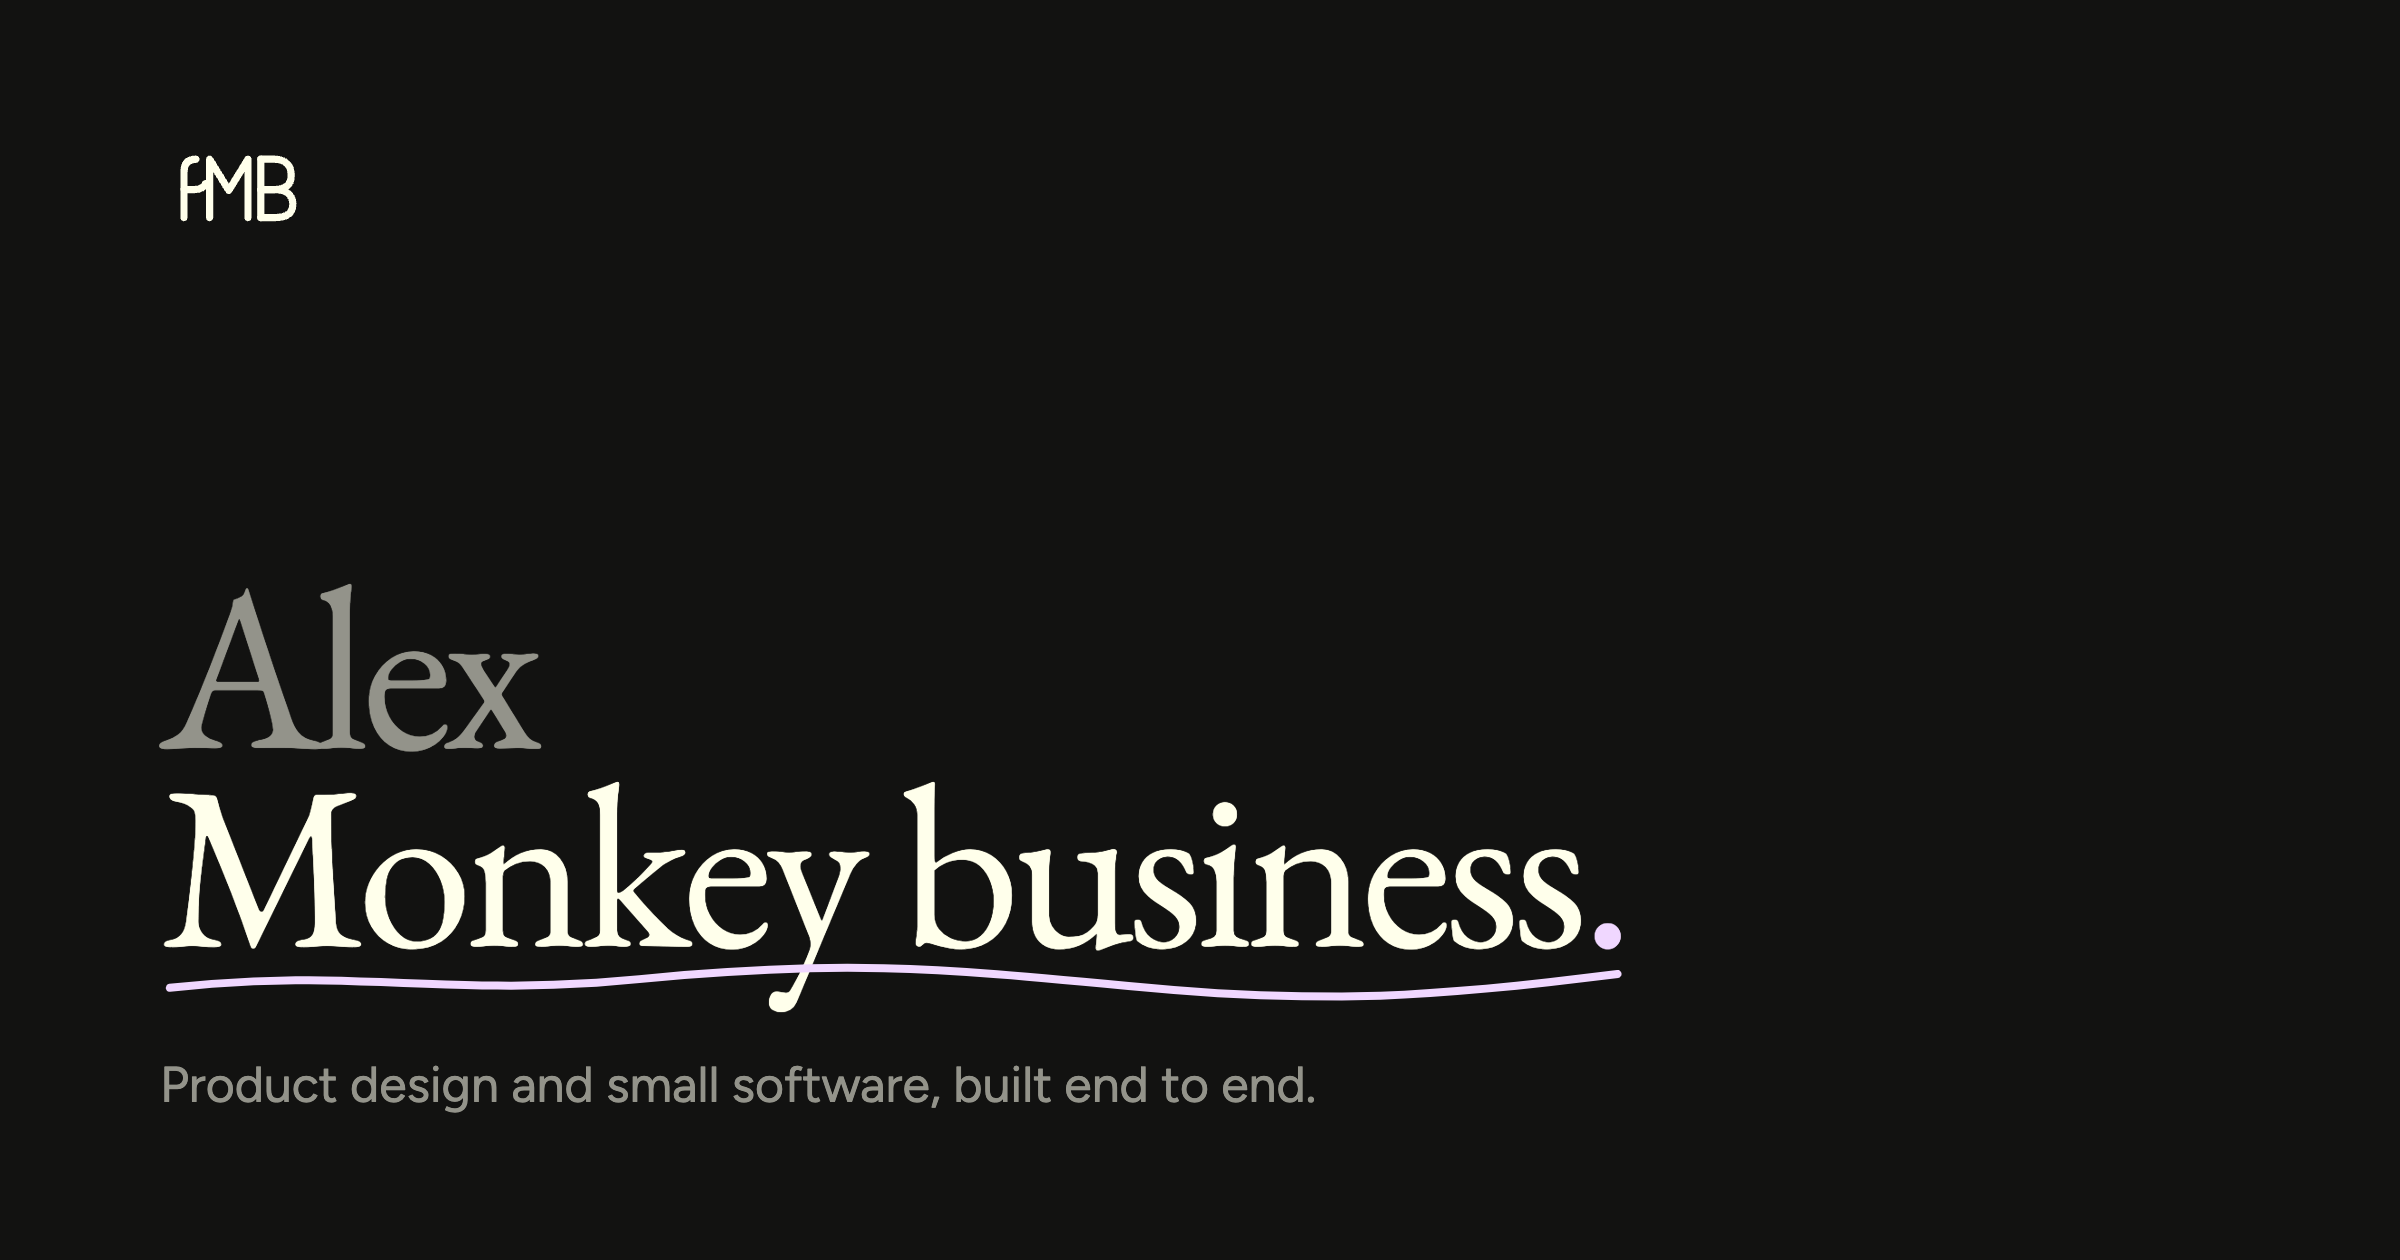
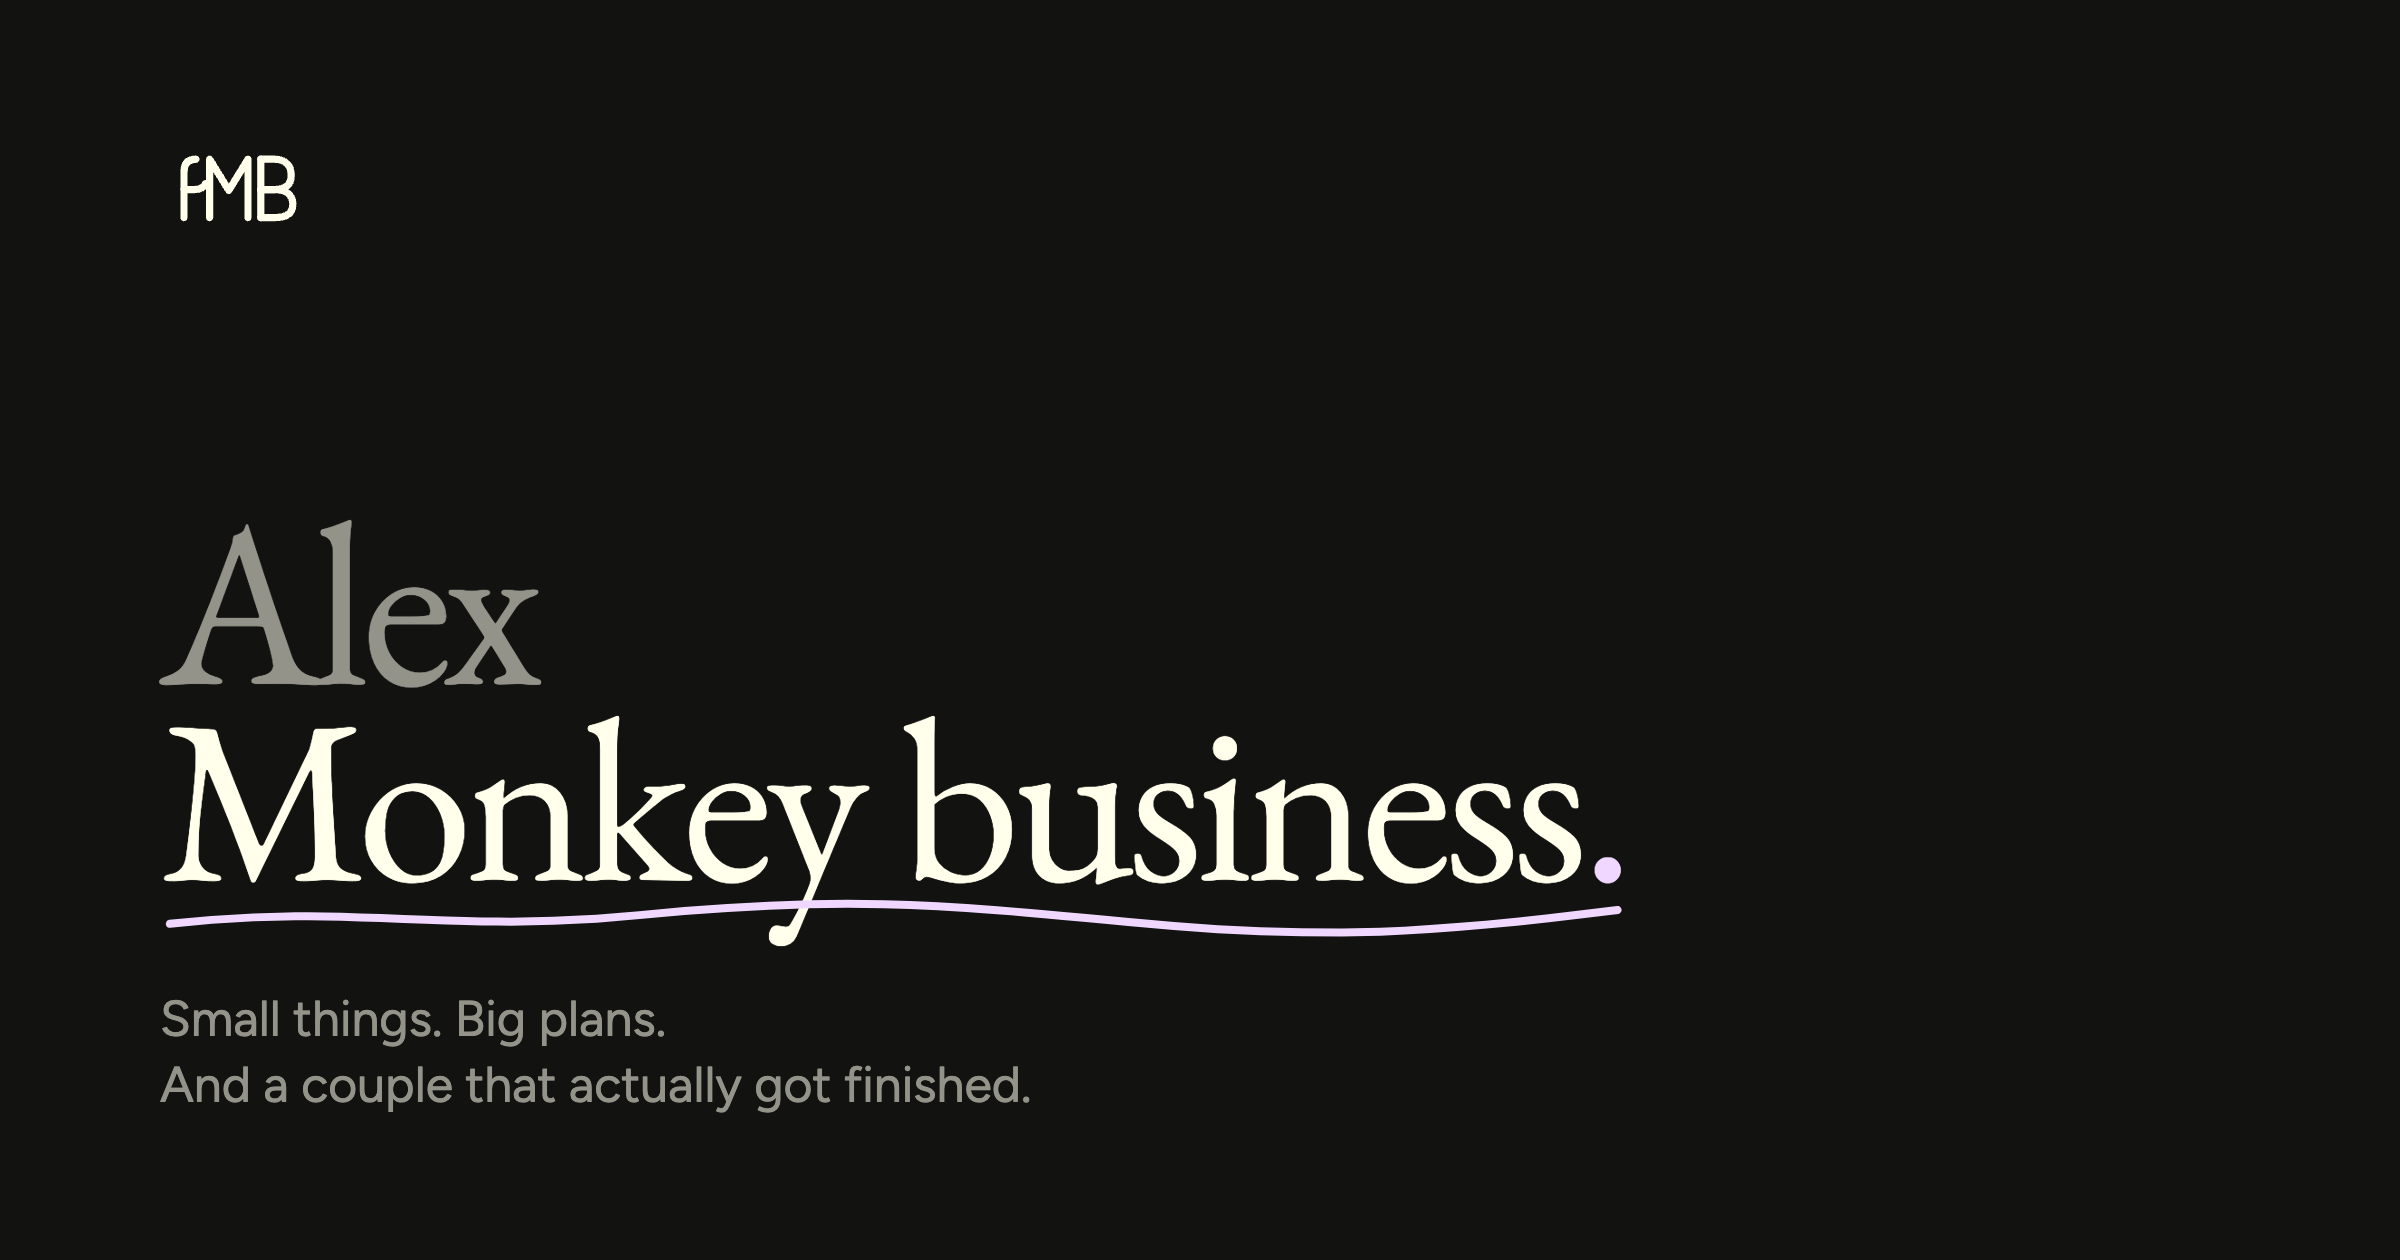
Let the work do the talking
The site explained itself too much: a job description in the hero, an
ambition credited to two other people on About, and card subtitles that
read like a project register. All of it told the reader what to think
instead of letting them get there.

Hero is two short lines now. About drops the title and the Musk/Thovex
credit — the name becomes the quiet label, the personality gets display
size. The four cards each get one line in Alex's voice. The BenchBoss
case keeps every fact and loses the explanations around them: the
substitute clock is stated, not walked through.

English is written rather than translated. Share cards regenerated, and
the OG lede breaks in two the same way the page does.

Changed region(s): [[0.0625, 0.4024, 0.6875, 0.8976]]

diff --git a/web/src/i18n/strings.ts b/web/src/i18n/strings.ts
@@ -19,35 +19,34 @@ export const strings = {
   nb: {
     label: 'Norsk',
     site: {
-      description: 'Produktdesign og små apper, bygget fra ende til ende.',
+      description: 'Små ting. Store planer. Og et par ting som faktisk ble ferdige.',
       aboutTitle: 'Om — Alex Monkey Business',
     },
     nav: { projects: 'Prosjekter', about: 'Om', cta: 'Ta kontakt' },
     hero: {
-      lede: 'Produktdesign og små apper, bygget fra ende til ende. Sideprosjekter og verktøy for folk jeg kjenner.',
+      lede1: 'Små ting. Store planer.',
+      lede2: 'Og et par ting som faktisk ble ferdige.',
       seeWork: 'Se arbeidet',
       getInTouch: 'Ta kontakt',
     },
     work: {
       count: (n: number) => `${n} prosjekter`,
       titleA: 'Ting jeg har',
-      titleEm: 'bygget',
+      titleEm: 'laget',
     },
     card: { readCase: 'Les caset', visitSite: 'Se siden', inProgress: 'Underveis' },
     footer: { email: 'E-post', github: 'GitHub', about: 'Om' },
     about: {
-      eyebrow: 'Om',
-      title: 'Bygger',
-      body1a: 'Produktmann av yrke. Sideprosjekter av',
-      body1em: 'natur',
-      body2: 'Inspirert av Elon Musks ambisjon og Candide Thovex’ flyt.',
+      eyebrow: 'Alexander Samnøy',
+      title: 'Har en tendens til å få idéer',
+      body: 'Noen av dem slipper jeg ikke før de finnes.',
     },
     detail: { back: '← Tilbake', wip: 'underveis', comingSoon: 'Kommer snart.' },
     /** Offered to visitors whose browser is not Norwegian. */
     switchHint: 'Read in English',
     case: {
       eyebrow: 'Case — Halsen G2015',
-      lede: 'Full kontroll på laget. Mesteparten på autopilot.',
+      lede: 'En hel sesong i én app. Det meste passer seg selv.',
       back: '← Tilbake',
       underHood: 'Under panseret',
       hood: [
@@ -60,76 +59,76 @@ export const strings = {
       features: [
         {
           h: 'Åpner på dagen du er i.',
-          p: 'Neste økt, neste kamp, og det som fortsatt henger. Ingenting annet på skjermen.',
+          p: 'Neste økt, neste kamp, og det som fortsatt henger. Ingenting annet.',
         },
         {
           h: 'Minuttene teller seg selv.',
-          p: 'Sett laget på banen, så blås i gang. Hver spiller har sin egen klokke: en innbytter som kommer inn i det åttende minuttet starter på null mens kampklokka går videre.',
+          p: 'Sett laget på banen og blås i gang. Hver spiller har sin egen klokke.',
         },
         {
           h: 'Tre lag, ett om gangen.',
-          p: 'Tre lag ut av én klubb. Trykk på en farge, og sesongen blir det lagets sesong. Tallene står på fanene.',
+          p: 'Trykk på en farge. Sesongen blir det lagets sesong.',
         },
         {
           h: 'Er lagene jevne?',
-          p: 'Spilt, vunnet, uavgjort, målforskjell, poeng — per lag, ikke per klubb. Ingen tabell viser deg det.',
+          p: 'Spilt, vunnet, målforskjell — per lag, ikke per klubb. Ingen tabell viser deg det.',
         },
         {
-          h: 'Den foreslår innbytteren.',
-          p: 'Appen stjernemerker de som er egnet, ledige den dagen, og ikke alt lånt ut den uka. Færrest ekstrakamper først, så belastningen fordeles i stedet for å havne på den som svarer først i gruppechatten.',
+          h: 'Den finner hvem som kan steppe inn.',
+          p: 'Ledig den dagen, ikke lånt ut den uka, færrest ekstrakamper først. Gruppechatten får hvile litt.',
         },
         {
           h: 'Hvorfor-et, skrevet ned.',
-          p: 'Sju prinsipper for hvordan dette laget trener. En vikar på en tirsdag kjører samme fotball som lørdagen før. Det ligger i appen, ikke i en PDF.',
+          p: 'Sju prinsipper for hvordan laget trener. En vikar på tirsdag kjører samme fotball som lørdagen før.',
         },
         {
           h: 'Økter med ryggrad.',
-          p: 'Perioder holder økter, økter holder øvelser. Hver øvelse har sitt fokus og en tyngre variant. Uka er skrevet ned, ikke husket.',
+          p: 'Perioder, økter, øvelser. Uka er skrevet ned, ikke husket.',
         },
         {
-          h: 'En hel turnering, to lag.',
-          p: 'Tolv kamper over to dager, to Halsen-lag. Bane, avspark, kampnummer, filtrert per lag. Én skjerm i stedet for et utskrevet ark.',
+          h: 'Tolv kamper. To dager. To lag.',
+          p: 'Alt på ett sted. Bane, avspark og kampnummer, filtrert per lag.',
         },
       ],
     },
     projects: {
-      'halsen-g15': 'trenerapp for fotballag',
-      'ai-meetup-larvik': 'eventside + invitasjon',
-      'larvik-beach-volley': 'forslag om innendørsbane i Agnespark',
+      'halsen-g15': 'Mindre styr. Mer fotball.',
+      'ai-meetup-larvik': 'En kveld om AI. Uten dresskode.',
+      'larvik-beach-volley': 'Sand er best inne også.',
+      diggski: 'Ikke helt klar ennå. Men på vei et sted.',
     } as Record<string, string>,
   },
 
   en: {
     label: 'English',
     site: {
-      description: 'Product design and small software, built end to end.',
+      description: 'Small things. Big plans. And a couple that actually got finished.',
       aboutTitle: 'About — Alex Monkey Business',
     },
     nav: { projects: 'Projects', about: 'About', cta: 'Get in touch' },
     hero: {
-      lede: 'Product design and small software, built end to end. Side projects and tools for people I know.',
+      lede1: 'Small things. Big plans.',
+      lede2: 'And a couple that actually got finished.',
       seeWork: 'See the work',
       getInTouch: 'Get in touch',
     },
     work: {
       count: (n: number) => `${n} projects`,
       titleA: "Things I've",
-      titleEm: 'shipped',
+      titleEm: 'made',
     },
     card: { readCase: 'Read the case', visitSite: 'Visit site', inProgress: 'In progress' },
     footer: { email: 'Email', github: 'GitHub', about: 'About' },
     about: {
-      eyebrow: 'About',
-      title: 'Builder',
-      body1a: 'Product guy by profession. Side hustles by',
-      body1em: 'nature',
-      body2: 'Inspired by Elon Musk’s ambition and Candide Thovex’s flow.',
+      eyebrow: 'Alexander Samnøy',
+      title: 'Prone to getting ideas',
+      body: "Some of them I won't let go of until they exist.",
     },
     detail: { back: '← Back', wip: 'in progress', comingSoon: 'Coming soon.' },
     switchHint: 'Les på norsk',
     case: {
       eyebrow: 'Case — Halsen G2015',
-      lede: 'Full control of the team. Most of it on autopilot.',
+      lede: 'A whole season in one app. Most of it looks after itself.',
       back: '← Back',
       underHood: 'Under the hood',
       hood: [
@@ -142,42 +141,43 @@ export const strings = {
       features: [
         {
           h: "Opens to the day you're in.",
-          p: 'The next session, the next match, and whatever is still unfinished. Nothing else on the screen.',
+          p: 'The next session, the next match, and whatever is still unfinished. Nothing else.',
         },
         {
           h: 'Every minute counts itself.',
-          p: "Build the team on the pitch, then kick off. Each player's clock runs on its own: a substitute coming on in the eighth minute starts at zero while the match clock carries on.",
+          p: "Put the team on the pitch and kick off. Every player has their own clock.",
         },
         {
           h: 'Three teams, one at a time.',
-          p: "Three squads out of one club. Tap a colour and the season becomes that squad's season. The counts are on the tabs.",
+          p: "Tap a colour. The season becomes that squad's season.",
         },
         {
           h: 'Are the teams even?',
-          p: 'Played, won, drawn, goal difference, points — per squad rather than per club. No league table shows you that.',
+          p: 'Played, won, goal difference — per squad, not per club. No league table shows you that.',
         },
         {
-          h: 'It picks the stand-in for you.',
-          p: 'The app stars whoever is eligible, free that day, and not already lent out that week. Fewest extra appearances first, so the load spreads instead of landing on whoever answers the group chat fastest.',
+          h: 'It finds who can step in.',
+          p: 'Free that day, not already lent out that week, fewest extra appearances first. The group chat gets a rest.',
         },
         {
           h: 'The why, written down.',
-          p: 'Seven principles for how this team trains. A stand-in on a Tuesday runs the same football as the Saturday before. It lives in the app, not a PDF.',
+          p: 'Seven principles for how the team trains. A stand-in on Tuesday runs the same football as the Saturday before.',
         },
         {
           h: 'Sessions with a spine.',
-          p: 'Periods hold sessions, sessions hold drills. Every drill carries its focus and a harder variant. The week is written down rather than remembered.',
+          p: 'Periods, sessions, drills. The week is written down rather than remembered.',
         },
         {
-          h: 'A whole tournament, two teams.',
-          p: 'Twelve matches over two days, two Halsen sides. Pitch, kick-off, match number, filtered per team. One screen instead of a printed sheet.',
+          h: 'Twelve matches. Two days. Two teams.',
+          p: 'All in one place. Pitch, kick-off and match number, filtered per team.',
         },
       ],
     },
     projects: {
-      'halsen-g15': 'coaching app for football teams',
-      'ai-meetup-larvik': 'event page + invite',
-      'larvik-beach-volley': 'pitch for an indoor court at Agnes park',
+      'halsen-g15': 'Less hassle. More football.',
+      'ai-meetup-larvik': 'An evening about AI. No dress code.',
+      'larvik-beach-volley': 'Sand belongs indoors too.',
+      diggski: "Not quite ready. But headed somewhere.",
     } as Record<string, string>,
   },
 } as const;

diff --git a/web/tools/og-image.html b/web/tools/og-image.html
@@ -80,7 +80,7 @@
         font-size: 25px;
         line-height: 1.3;
         color: var(--fog);
-        white-space: nowrap;   /* one line — no orphaned "end to end." */
+        white-space: pre-line;  /* the copy breaks itself — see LEDE below */
       }
     </style>
   </head>
@@ -111,14 +111,15 @@
         >
       </h1>
 
-      <p class="lede" id="lede">Product design and small software, built end to end.</p>
+      <p class="lede" id="lede">Small things. Big plans. And a couple that actually got finished.</p>
     </div>
     <script>
     // The card is rendered twice, once per language. Only the lede differs —
-    // "Alex Monkey business." is the brand and stays put.
+    // "Alex Monkey business." is the brand and stays put. The newline is the
+    // same break the site makes: the punchline gets its own line.
     const LEDE = {
-      nb: 'Produktdesign og små apper, bygget fra ende til ende.',
-      en: 'Product design and small software, built end to end.',
+      nb: 'Små ting. Store planer.\nOg et par ting som faktisk ble ferdige.',
+      en: 'Small things. Big plans.\nAnd a couple that actually got finished.',
     };
     const lang = new URLSearchParams(location.search).get('lang') || 'en';
     document.getElementById('lede').textContent = LEDE[lang] || LEDE.en;

diff --git a/web/src/data/projects.ts b/web/src/data/projects.ts
@@ -1,8 +1,12 @@
+/**
+ * Card copy lives in `i18n/strings.ts` under `projects[slug]`, not here — it is
+ * a voice, and it differs per language. This file holds only what is the same
+ * in both: the name, the year, and where the card points.
+ */
 export type Project = {
   slug: string;
   title: string;
   titleEm?: string;
-  subtitle?: string;
   year: string;
   status?: 'wip';
   /** External URL — when present, the card opens in a new tab. */
@@ -14,14 +18,12 @@ export const projects: Project[] = [
     slug: 'halsen-g15',
     title: 'Bench',
     titleEm: 'Boss',
-    subtitle: 'coaching app for football teams',
     year: '2026',
   },
   {
     slug: 'ai-meetup-larvik',
     title: 'AI Meetup',
     titleEm: 'Larvik',
-    subtitle: 'event page + invite',
     year: '2026',
     url: 'https://ai-meetup-larvik.netlify.app/',
   },
@@ -29,7 +31,6 @@ export const projects: Project[] = [
     slug: 'larvik-beach-volley',
     title: 'Larvik Beach',
     titleEm: 'Volley',
-    subtitle: 'pitch for an indoor court at Agnes park',
     year: '2026',
     url: 'https://larvik-beach-volley.netlify.app/',
   },
